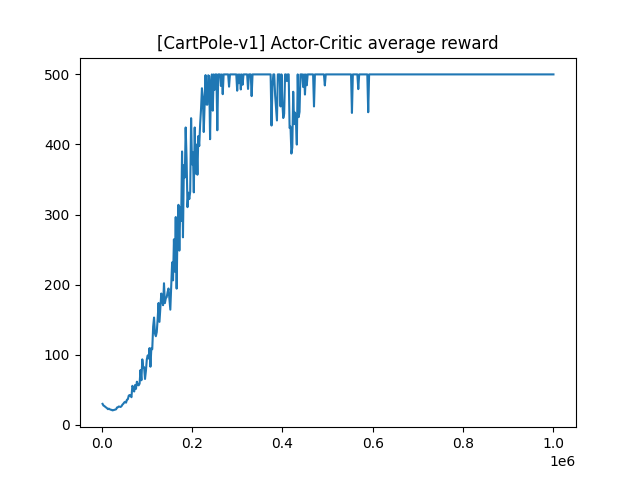
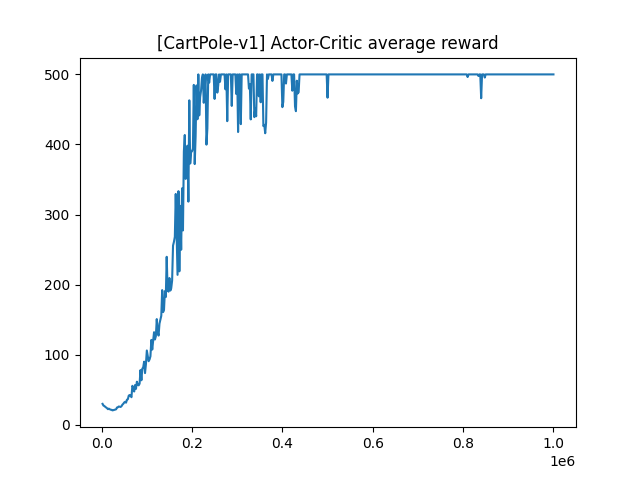
add batched actor critic updates

Changed region(s): [[0.25, 0.1562, 0.5938, 0.4375], [0.2188, 0.4688, 0.3125, 0.7812], [0.75, 0.1562, 0.7812, 0.1875]]

diff --git a/algos/actor_critic.py b/algos/actor_critic.py
@@ -26,6 +26,17 @@ params = {
         "critic_learning_rate": 0.004,
         "critic_updates": 20,
     },
+    "catch": {
+        "actor_sizes": (30, 15),
+        "critic_sizes": (30, 15),
+        "num_updates": 1000,
+        "batch_count": 50,
+        "rollout_len": 1000,
+        "discount_rate": 0.99,
+        "actor_learning_rate": 0.002,
+        "critic_learning_rate": 0.004,
+        "critic_updates": 20,
+    },
 }
 
 NUM_UPDATES = params[ENV_KEY]["num_updates"]
@@ -208,8 +219,8 @@ def calc_episode_rewards(transitions):
     return rewards
 
 @jax.jit
-def run_update(actor_state, critic_state, rng_key):
-    """Runs an iteration of the training loop by sampling trajectories and applying gradients."""
+def run_update_vanilla(actor_state, critic_state, rng_key):
+    """Runs an iteration of the training loop with the vanilla parallel update."""
     rng_key, rollout_key = jax.random.split(rng_key, 2)
     transitions, last_observation = run_rollout(actor_state, rollout_key)
     advantages, targets = calc_values(critic_state, transitions, last_observation)
@@ -223,18 +234,53 @@ def run_update(actor_state, critic_state, rng_key):
     average_reward = jnp.sum(total_rewards * transitions.done) / jnp.sum(transitions.done)
     return (actor_state, critic_state, (average_reward, actor_loss, critic_loss), rng_key)
 
+@jax.jit
+def run_update_ordered(actor_state, critic_state, rng_key):
+    """Runs an iteration of the training loop with the value-first update."""
+    rng_key, rollout_key = jax.random.split(rng_key, 2)
+    transitions, last_observation = run_rollout(actor_state, rollout_key)
+
+    a, targets = calc_values(critic_state, transitions, last_observation)
+    critic_loss = 0
+    for c in range(CRITIC_UPDATES):
+        critic_state, critic_loss = update_critic(critic_state, transitions, targets)
+    advantages, t = calc_values(critic_state, transitions, last_observation)
+    actor_state, actor_loss = update_actor(actor_state, transitions, advantages)
+
+    total_rewards = calc_episode_rewards(transitions)
+    average_reward = jnp.sum(total_rewards * transitions.done) / jnp.sum(transitions.done)
+    return (actor_state, critic_state, (average_reward, actor_loss, critic_loss), rng_key)
+
+@functools.partial(jax.jit, static_argnums=3)
+def run_batch(actor_state, critic_state, rng_key, batch_count):
+    """Trains the model for a batch of updates."""
+    def run_once(batch_state, x):
+        """Runs an update and carries over the train state."""
+        actor_state, critic_state, rng_key = batch_state
+        actor_state, critic_state, metrics, rng_key = \
+            run_update_vanilla(actor_state, critic_state, rng_key)
+        return ((actor_state, critic_state, rng_key), metrics)
+
+    batch_state, batch_metrics = jax.lax.scan(
+        run_once,
+        init=(actor_state, critic_state, rng_key),
+        length=batch_count,
+    )
+    actor_state, critic_state, rng_key = batch_state
+    return (actor_state, critic_state, batch_metrics, rng_key)
+
 # Run the training loop
 
 average_rewards = []
 actor_losses = []
 critic_losses = []
-for u in range(NUM_UPDATES):
-    actor_state, critic_state, metrics, rng_key = run_update(actor_state, critic_state, rng_key)
-    average_rewards.append(metrics[0])
-    actor_losses.append(metrics[1])
-    critic_losses.append(metrics[2])
-    if u % 50 == 0:
-        print(f"[Update {u}]: Average reward {metrics[0]}")
+for u in range(int(NUM_UPDATES / BATCH_COUNT)):
+    actor_state, critic_state, batch_metrics, rng_key = \
+        run_batch(actor_state, critic_state, rng_key, BATCH_COUNT)
+    average_rewards += [float(r) for r in batch_metrics[0]]
+    actor_losses += [float(l) for l in batch_metrics[1]]
+    critic_losses += [float(l) for l in batch_metrics[2]]
+    print(f"[Update {(u + 1) * BATCH_COUNT}]: Average reward {batch_metrics[0][-1]}")
 
 # Plot rewards and losses
 
